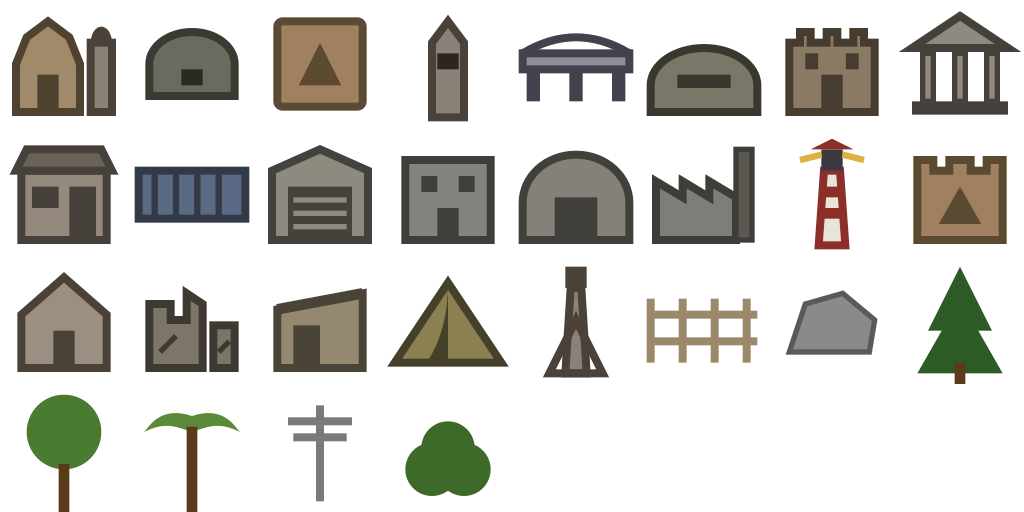
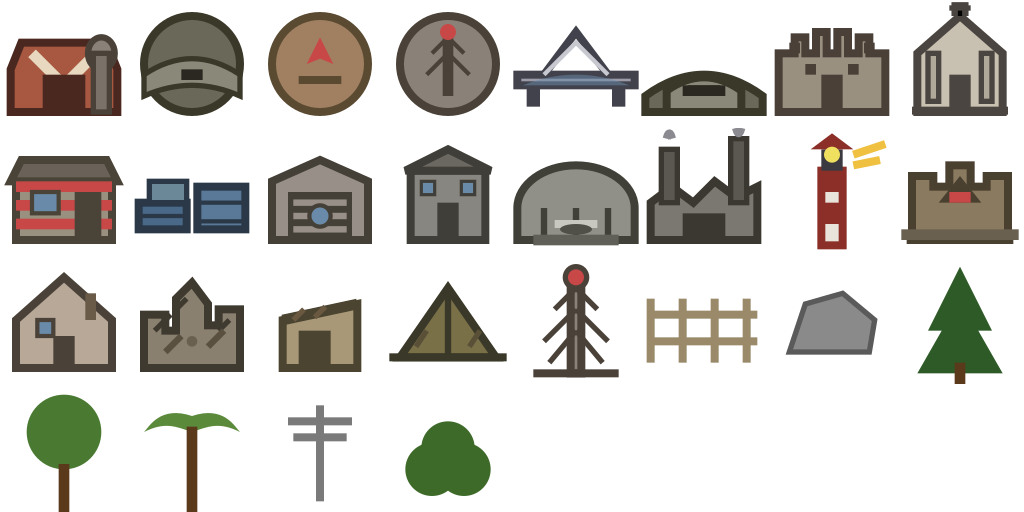
T-152.2: Reforger-familiar LANDMARK_SET glyph art + atlas rebuild
Redraw all 21 building landmark SVGs with distinct A3/Reforger silhouettes,
rebuild world-glyphs.webp, and document MCP discovery fallback + G1–G7 gates.

diff --git a/.ai/artifacts/t152_2_verify_log.md b/.ai/artifacts/t152_2_verify_log.md
@@ -1,0 +1,88 @@
+# T-152.2 verify log — Reforger map icon art + atlas rebuild
+
+**Slice:** T-152.2  
+**Worktree:** `/home/Samuel/Projects/TBD-Reforger/.ai/artifacts/worktrees/TBD-T-152`  
+**Branch:** `ticket/T-152`  
+**Date:** 2026-07-13
+
+---
+
+## Gate table
+
+| ID | Predicate | Result | Evidence |
+|----|-----------|--------|----------|
+| **G1** | Discovery artifact | **PASS** | `.ai/artifacts/t152_2_icon_discovery.json` — 21 keys, each `source:redraw` + `redrawRationale`; Workbench MCP FAIL documented |
+| **G2** | Coverage | **PASS** | `manifest.json` defines all 21 `LANDMARK_SET` keys |
+| **G3** | SVG on disk | **PASS** | `test -f packages/map-assets/glyphs/svg/${k}.svg` for all 21 keys |
+| **G4** | Placeholder evicted | **PASS** | All 21 pre/post SHA256 differ (see appendix) |
+| **G5** | Atlas build | **PASS** | `make map-glyphs-build` exit 0 — **28** icons → 1024×512 atlas (31.8 KB) |
+| **G6** | Verify script | **PASS** | `make map-glyphs-verify` exit 0 |
+| **G7** | Golden prefabs | **PASS** | `verify-map-glyphs: OK (28 glyphs, golden + everon iconKeys covered, atlas rects verified)` |
+
+**Atlas key count:** 28 (`world-glyphs.json` `icons` object)
+
+---
+
+## Automated commands
+
+```bash
+make map-glyphs-build     # exit 0
+make map-glyphs-verify    # exit 0
+```
+
+---
+
+## Manual checklist (advisory)
+
+| ID | Check | Pass |
+|----|-------|------|
+| M1 | Lighthouse + castle + military @ zoom ≥ +1.5 recognizable vs Reforger map | ☐ operator |
+| M2 | Atlas preview — no magenta/empty cells for LANDMARK_SET | ☐ operator |
+
+---
+
+## Discovery summary
+
+- **Workbench MCP:** `api_search "map icon atlas UI"` — **TIMEOUT** (daemon not warm). Redraw path per spec.
+- **Artifact:** `.ai/artifacts/t152_2_icon_discovery.json`
+- **Art path:** All 21 `LANDMARK_SET` SVGs redrawn with distinct Reforger/A3-familiar silhouettes (24×24 viewBox, simple fills).
+
+---
+
+## Appendix — SHA256 pre/post (LANDMARK_SET)
+
+| iconKey | sha256_pre | sha256_post | G4 |
+|---------|------------|-------------|-----|
+| building-agricultural | ad33f714906c1e6483d7927e8209a3d7910fa8311337d5d9bf095a02f80c01a1 | 675135487f68cbede022a9a72b85b30a0005d44e1ca1300c2ccb8afe68728c70 | PASS |
+| building-badge-bunker | 83f5293e160ee79e3e251a66041845a2a9de2c6cb53ef2ca8110a2594cfd633d | 1d4ac9cbe5e16e4cbfe447b220a5b7c4fd2128d427348b269af248f1c0c43782 | PASS |
+| building-badge-military | cd3026ac4ee750a4bf336f1986d51de5cbaf3f289573569a98d0d7317da60e32 | cc25cf7c23e7c61df3ae84322c0eb96ad1b8dc132a140c679c0ac0872eed0592 | PASS |
+| building-badge-tower | d9290c0cd01a14fba5796bac0500817d74a412bc8f8664e1a9311d56c2f2bcc8 | 6052564f109d0155fa0b910b57aaf6312282e21df3f17c12ba73850007483b32 | PASS |
+| building-bridge | dd50fded8c23084e1831cc76ade255c419d028657ac312a997750fee37617d3c | c9e271b2e930e3466c5179188e1ac8f13124765ff7533f8de1e1d2926c1658d4 | PASS |
+| building-bunker | 57fc669114697d7ee902512131cd6a2bd73b71533d88b0eff6fdd4efef6e7f71 | feef457d77aba033add517a721260a89b7105ab721005085a0429f1ea8526f9f | PASS |
+| building-castle | 183eac9702dabe23eb339e1f644ad690b0eb10af2301b8684273446eeacdfc70 | bc3f53dafbcd89bdd26896e7c0f074b0b75925d87d2a3662dea3c9e4e339de32 | PASS |
+| building-civic | 7405ad7bbd2759965a540fb18ba5fe980f2a2d3fcd80be184affa098776db758 | 06db0c9e9fc6ca1f3a8e4471a905badbc3b6c1b5047a72e78fbdaefab6c9f2ee | PASS |
+| building-commercial | 051c584f47cab00873a6366ffaf21c962b53b25b0493c8a269e4df1aed00a7a5 | ba0a0840c36f539252f359124d37792d5c3249267fe5b5f82bf70cf0e1e1d3ee | PASS |
+| building-container | 2057341900462f9c85914e6fac2d54cb127ab8145f8ab762f59d556c96f3770f | 7b5ed4e685defa5afc1ab49db7692429b3ee564ebbe1079094d7591e578d7f96 | PASS |
+| building-garage | d77601b15746adc048e431312138729c0bc13daef2d4efe7643f0f840e69484b | 74f6416702055573b59154551d7f7bc4f856f0bff4c22589130d8de9a52e8b00 | PASS |
+| building-generic | 1fc494e71050edd9cfd530a1346eb29b381a882bd9bda752171515482c77356a | 4e6893c1c6ad87d852a93fecbf53ac4deae92445b5b1035597221cf4537f1f36 | PASS |
+| building-hangar | 269faeb4221cba9e031451bb9ffb5d2dd5ac38e927123d12b2792197b7d3cb5a | 6edb303dffccff14cf13b4e6fce0658004b30cd10f405de42a36968deb4c832e | PASS |
+| building-industrial | 2c73452c3e11b35cdd38bcbf99744d9d026c6423e93550f8c671cae195dfdf88 | ca381543e90a8852fdd9a571acdeee62b0ccaa4aabd5560a268e4032cf1d9a78 | PASS |
+| building-lighthouse | 1307ca5d8ac8406777f08ae329c1307f635961a5bacf18d4cae7259ed5bb3ace | f368c3e958fec831591843a052ad2fb51c57ff900afb468ea2fc7ed40cc810da | PASS |
+| building-military | 0f92c71dd393b0c2a05252feabbc550e0c9b90d50d9bbbbb0e7b57bf7ba00ff6 | fb3c1d424c8d27296cd30d2ae00675396c9bee8eba53e20e9c5b1e9272f9c6b5 | PASS |
+| building-residential | 94361bdc0fce93e65a8242ae2f066205528971f8ada44218999147886253a639 | 4388c9370160b065abf9bad6354c78717d715b69981ce22f8024b0311584a3ae | PASS |
+| building-ruin | 17d25babdc70b5ce03da469413138f8b3810b36a31e759ed654c824272034a0e | df0734812ccc1a6224f02c712bbb7f1e80db5c7e90321d25cac3c5c4e50d14ef | PASS |
+| building-shed | 671ed8765eee4ac67c7f2e8644d2a384550b5d2f7725f38f2cbf73e9cb75267b | f6b03d91a714ded67a754b3c28f791c41aba3810535761a90a98541e73c6b6d1 | PASS |
+| building-tent | 20dcc9ef52bcf76ba6290df1042cd30da3c43696659bd8d0fc1ab1d23a2dc070 | 4e1dcea35e306bf84c610a6e8399eddf28108c2751765bbbcaa8edc66ac709dc | PASS |
+| building-tower | d5dbfbf5fed46a7eb2cc619b8bc738702c3c625423085407934d83901fbc4546 | f75c0b75146fcda093dabf2c435ee1293f38f2b0a0cbcd276aaeb7419137ef89 | PASS |
+
+---
+
+## Files changed
+
+- `packages/map-assets/glyphs/svg/building-*.svg` (21 LANDMARK_SET)
+- `packages/map-assets/glyphs/atlas/world-glyphs.webp`
+- `packages/map-assets/glyphs/atlas/world-glyphs.json`
+- `.ai/artifacts/t152_2_icon_discovery.json`
+- `.ai/artifacts/t152_2_verify_log.md`
+
+**Ready for T-152.3** (residency / GPU wire).